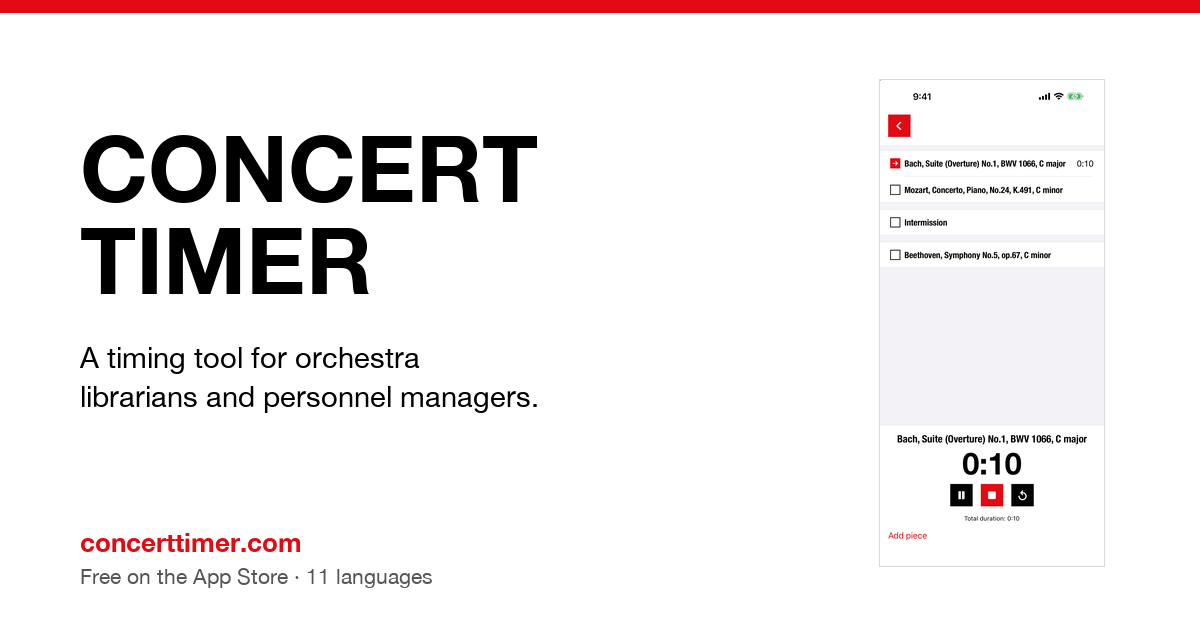
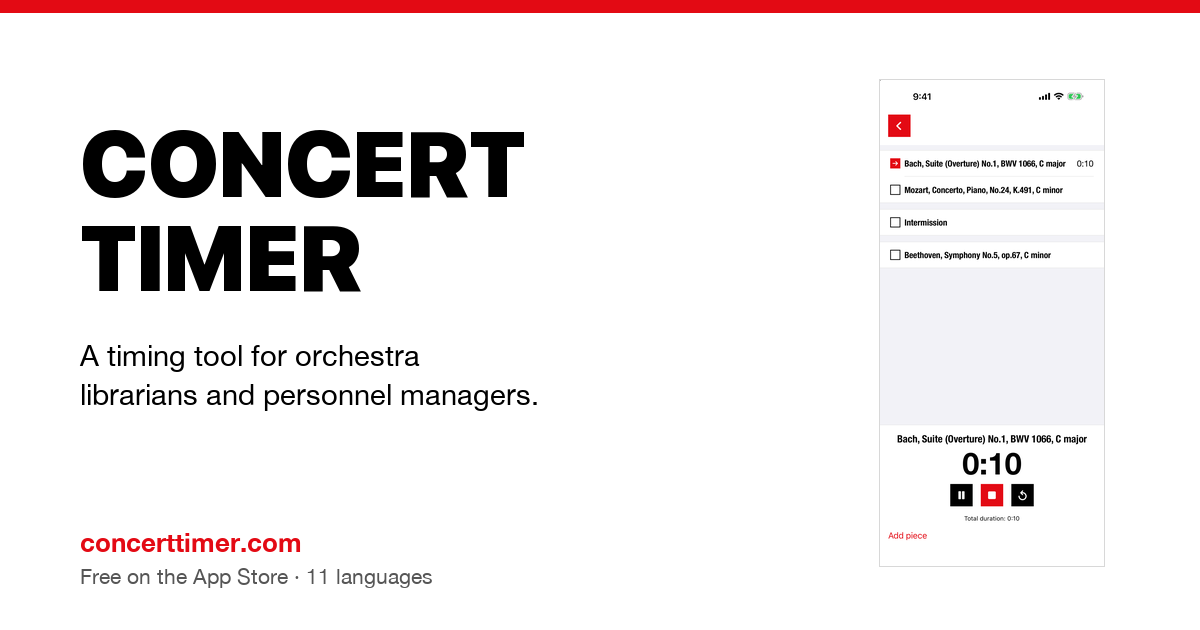
Add files via upload

Changed region(s): [[0.0617, 0.2111, 0.4625, 0.3619], [0.0617, 0.5429, 0.4625, 0.6635], [0.0925, 0.3619, 0.3083, 0.4825]]

diff --git a/index.html b/index.html
@@ -58,11 +58,17 @@
 
   /* ---- masthead ---- */
   header { padding: 56px 0 40px; }
+  /* The wordmark is San Francisco at weight .black — the same face and weight
+     the app sets its own CONCERT TIMER title in. Apple devices resolve SF from
+     -apple-system; everything else falls back to Helvetica rather than to
+     Segoe, which is why system-ui is deliberately not first. */
   h1 {
+    font-family: -apple-system, BlinkMacSystemFont, "SF Pro Display",
+                 "Helvetica Neue", Helvetica, Arial, sans-serif;
     font-size: clamp(44px, 9.2vw, 108px);
     line-height: 0.92;
-    letter-spacing: -0.035em;
-    font-weight: 700;
+    letter-spacing: -0.025em;
+    font-weight: 900;
     margin: 0;
     text-transform: uppercase;
   }

diff --git a/privacy.html b/privacy.html
@@ -36,11 +36,14 @@
   .grid { display: grid; grid-template-columns: repeat(12, 1fr); gap: var(--gap); }
 
   header { padding: 56px 0 36px; }
+  /* Same wordmark treatment as the front page: San Francisco, weight .black. */
   h1 {
+    font-family: -apple-system, BlinkMacSystemFont, "SF Pro Display",
+                 "Helvetica Neue", Helvetica, Arial, sans-serif;
     font-size: clamp(38px, 6.4vw, 72px);
     line-height: 0.95;
-    letter-spacing: -0.03em;
-    font-weight: 700;
+    letter-spacing: -0.025em;
+    font-weight: 900;
     margin: 0;
     text-transform: uppercase;
   }
